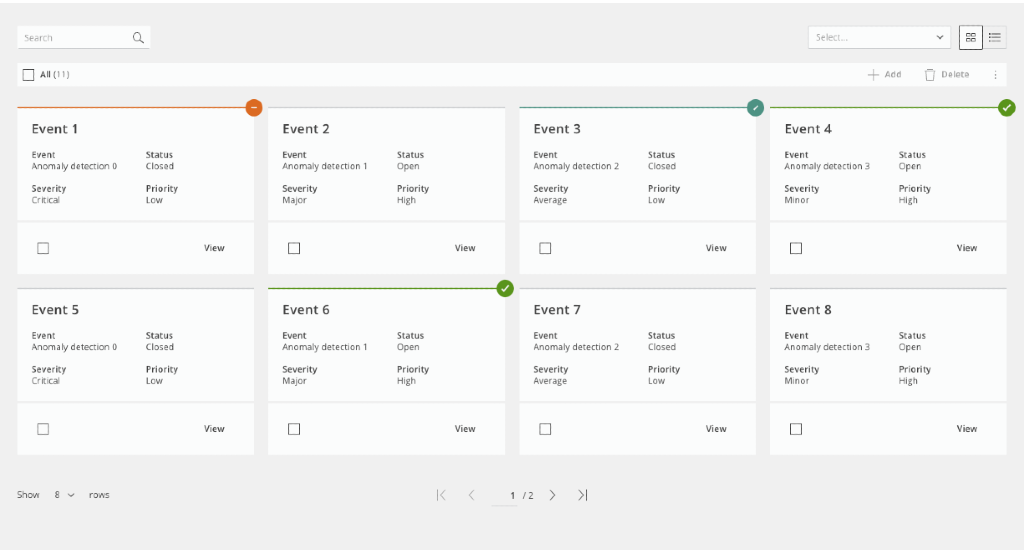
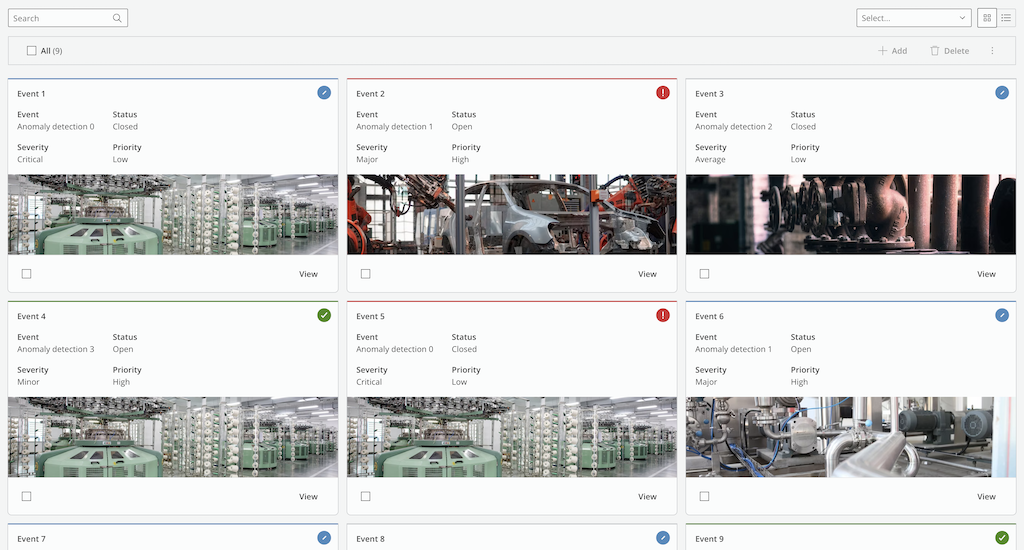
docs(AssetInventory): refactor template

diff --git a/templates/AssetInventory/data/utils.tsx b/templates/AssetInventory/data/utils.tsx
@@ -4,6 +4,9 @@ import {
   HvRightControlProps,
   HvSemanticColorKeys,
   HvTableColumnConfig,
+  HvCellProps,
+  HvTooltip,
+  HvTypography,
 } from "@hitachivantara/uikit-react-core";
 import {
   Cards,
@@ -29,35 +32,102 @@ export interface AssetInventoryEntry {
   time?: string;
   temperature?: string;
   statusColor?: HvSemanticColorKeys;
+  image?: string;
 }
 
-export const getColumns = (): HvTableColumnConfig<
-  AssetInventoryEntry,
-  string
->[] => [
-  { Header: "Title", accessor: "name", style: { minWidth: 220 } },
-  { Header: "Event Type", accessor: "eventType", style: { minWidth: 100 } },
-  { Header: "Status", accessor: "status", style: { width: 120 } },
-  { Header: "Severity", accessor: "severity" },
-  { Header: "Priority", accessor: "priority" },
-  { Header: "Time", accessor: "time" },
-  { Header: "Temperature", accessor: "temperature" },
+const images = [
+  "https://images.unsplash.com/photo-1513828583688-c52646db42da?ixlib=rb-4.0.3&ixid=M3wxMjA3fDB8MHxwaG90by1wYWdlfHx8fGVufDB8fHx8fA%3D%3D&auto=format&fit=crop&w=870&q=80",
+  "https://images.unsplash.com/photo-1589320011103-48e428abcbae?ixlib=rb-4.0.3&ixid=M3wxMjA3fDB8MHxwaG90by1wYWdlfHx8fGVufDB8fHx8fA%3D%3D&auto=format&fit=crop&w=870&q=80",
+  "https://images.unsplash.com/photo-1567789884554-0b844b597180?ixlib=rb-4.0.3&ixid=M3wxMjA3fDB8MHxwaG90by1wYWdlfHx8fGVufDB8fHx8fA%3D%3D&auto=format&fit=crop&w=870&q=80",
+  "https://images.unsplash.com/photo-1647427060118-4911c9821b82?ixlib=rb-4.0.3&ixid=M3wxMjA3fDB8MHxwaG90by1wYWdlfHx8fGVufDB8fHx8fA%3D%3D&auto=format&fit=crop&w=870&q=80",
+  "https://images.unsplash.com/photo-1612685180313-bdfe1d6896cd?ixlib=rb-4.0.3&ixid=M3wxMjA3fDB8MHxwaG90by1wYWdlfHx8fGVufDB8fHx8fA%3D%3D&auto=format&fit=crop&w=1190&q=80",
+  "https://images.unsplash.com/photo-1566930665082-4ae9dbbb5b6b?ixlib=rb-4.0.3&ixid=M3wxMjA3fDB8MHxwaG90by1wYWdlfHx8fGVufDB8fHx8fA%3D%3D&auto=format&fit=crop&w=873&q=80",
+  "https://images.unsplash.com/photo-1513828742140-ccaa28f3eda0?ixlib=rb-4.0.3&ixid=M3wxMjA3fDB8MHxwaG90by1wYWdlfHx8fGVufDB8fHx8fA%3D%3D&auto=format&fit=crop&w=870&q=80",
+  "https://images.unsplash.com/photo-1622534376374-fe4480328daa?ixlib=rb-4.0.3&ixid=M3wxMjA3fDB8MHxwaG90by1wYWdlfHx8fGVufDB8fHx8fA%3D%3D&auto=format&fit=crop&w=774&q=80",
+  "https://images.unsplash.com/photo-1618840626133-54463084a141?ixlib=rb-4.0.3&ixid=M3wxMjA3fDB8MHxwaG90by1wYWdlfHx8fGVufDB8fHx8fA%3D%3D&auto=format&fit=crop&w=872&q=80",
+  "https://images.unsplash.com/photo-1600715502630-c9300abe78a3?ixlib=rb-4.0.3&ixid=M3wxMjA3fDB8MHxwaG90by1wYWdlfHx8fGVufDB8fHx8fA%3D%3D&auto=format&fit=crop&w=870&q=80",
 ];
+
+const getRandomImage = () => images[Math.floor(Math.random() * images.length)];
 
 export const getStatusIcon = (color?: AssetInventoryEntry["statusColor"]) => {
   switch (color) {
     case "positive":
       return <Level0Good color="positive" />;
-    case "neutral":
-      return <Level1 color="neutral" />;
     case "warning":
       return <Level2Average color="warning" />;
     case "negative":
       return <Level3Bad color="negative" />;
+    case "neutral":
     default:
-      return undefined;
+      return <Level1 color="neutral" />;
   }
 };
+
+const getStatusMessage = (status?: AssetInventoryEntry["statusColor"]) => {
+  switch (status) {
+    case "positive":
+      return "Success";
+    case "warning":
+      return "Open";
+    case "negative":
+      return "Error";
+    case "neutral":
+    default:
+      return "Unassigned";
+  }
+};
+
+export const getColumns = (): HvTableColumnConfig<
+  AssetInventoryEntry,
+  string
+>[] => [
+  {
+    Header: "Status",
+    accessor: "status",
+    style: { width: 60 },
+    Cell: ({ row }: HvCellProps<AssetInventoryEntry, string>) => {
+      return (
+        <HvTooltip
+          title={
+            <HvTypography>
+              {getStatusMessage(row.original.statusColor)}
+            </HvTypography>
+          }
+        >
+          <div>{getStatusIcon(row.original.statusColor)}</div>
+        </HvTooltip>
+      );
+    },
+  },
+  {
+    Header: "Asset",
+    accessor: "image",
+    style: { maxWidth: 60 },
+    Cell: ({ row }: HvCellProps<AssetInventoryEntry, string>) => {
+      return (
+        <HvTooltip
+          placement="right"
+          title={
+            <div style={{ width: 400 }}>
+              <img alt={row.original.name} src={row.original.image} />
+            </div>
+          }
+        >
+          <div style={{ maxWidth: 60 }}>
+            <img alt={row.original.name} src={row.original.image} />
+          </div>
+        </HvTooltip>
+      );
+    },
+  },
+  { Header: "Title", accessor: "name", style: { minWidth: 140 } },
+  { Header: "Event Type", accessor: "eventType", style: { minWidth: 100 } },
+  { Header: "Severity", accessor: "severity" },
+  { Header: "Priority", accessor: "priority" },
+  { Header: "Time", accessor: "time" },
+  { Header: "Temperature", accessor: "temperature" },
+];
 
 export const actions: HvBulkActionsProps["actions"] = [
   { id: "add", label: "Add", icon: <Add /> },
@@ -149,7 +219,8 @@ export const createEntry = (i: number): AssetInventoryEntry => {
     severity: getOption(["Critical", "Major", "Average", "Minor"], i),
     priority: getPriority(i),
     time: getTime(getPriority(i), i),
-    temperature: `${i + 35}`,
+    temperature: `${i + 35}º C`,
     statusColor: getRandomStatus(),
+    image: getRandomImage(),
   };
 };

diff --git a/templates/AssetInventory/CardView/CardView.tsx b/templates/AssetInventory/CardView/CardView.tsx
@@ -9,6 +9,7 @@ import {
   HvTypography,
   Breakpoint,
   HvTableInstance,
+  HvCardMedia,
 } from "@hitachivantara/uikit-react-core";
 
 import { AssetInventoryEntry, getStatusIcon } from "../data";
@@ -19,12 +20,14 @@ interface CarViewProps {
 }
 
 export const CardView = ({ id, instance }: CarViewProps) => {
+  console.log(instance);
+  const selectedCardsIds = instance.selectedFlatRows.map((r) => r.id);
   return (
     <HvSimpleGrid
       id={id}
       breakpoints={
         [
-          { minWidth: 1270, cols: 4, spacing: "md" },
+          { minWidth: 1919, cols: 4, spacing: "md" },
           { minWidth: 960, cols: 3, spacing: "md" },
           { minWidth: 600, cols: 2, spacing: "sm" },
           { minWidth: 0, cols: 1, spacing: "sm" },
@@ -34,6 +37,8 @@ export const CardView = ({ id, instance }: CarViewProps) => {
       {instance.page.map((row) => {
         return (
           <HvCard
+            selectable
+            selected={selectedCardsIds.includes(row.id)}
             bgcolor="atmo1"
             key={`${row?.values?.name}-row`}
             style={{ width: "100%" }}
@@ -69,6 +74,12 @@ export const CardView = ({ id, instance }: CarViewProps) => {
                 </HvCardContent>
               </div>
             </div>
+            <HvCardMedia
+              component="img"
+              alt={row.original.name}
+              height={140}
+              image={row.original.image}
+            />
             <HvActionBar>
               <HvCheckBox
                 onChange={() => instance.toggleRowSelected?.(row.id)}

diff --git a/templates/AssetInventory/index.tsx b/templates/AssetInventory/index.tsx
@@ -30,7 +30,7 @@ import {
 } from "./data";
 import { LoadingContainer } from "../LoadingContainer";
 
-const PAGE_OPTIONS = [8, 16, 32];
+const PAGE_OPTIONS = [12, 24, 36];
 
 const AssetInventory = () => {
   const [currentView, setCurrentView] = useState("card");
@@ -181,6 +181,9 @@ const AssetInventory = () => {
           <HvPagination
             {...instance.getHvPaginationProps?.()}
             pageSizeOptions={PAGE_OPTIONS}
+            labels={{
+              pageSizeEntryName: currentView === "card" ? "cards" : "rows",
+            }}
           />
         ) : undefined}
       </div>
